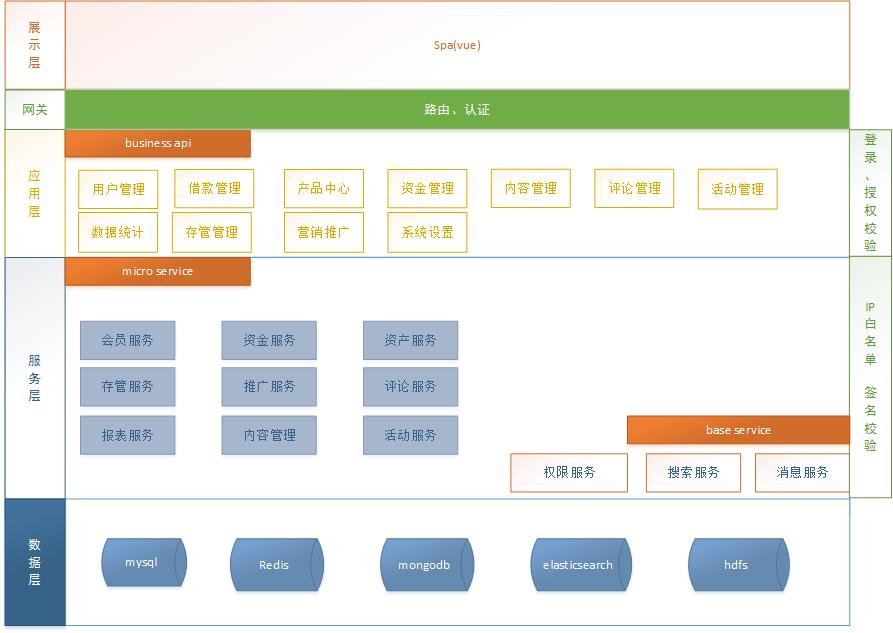
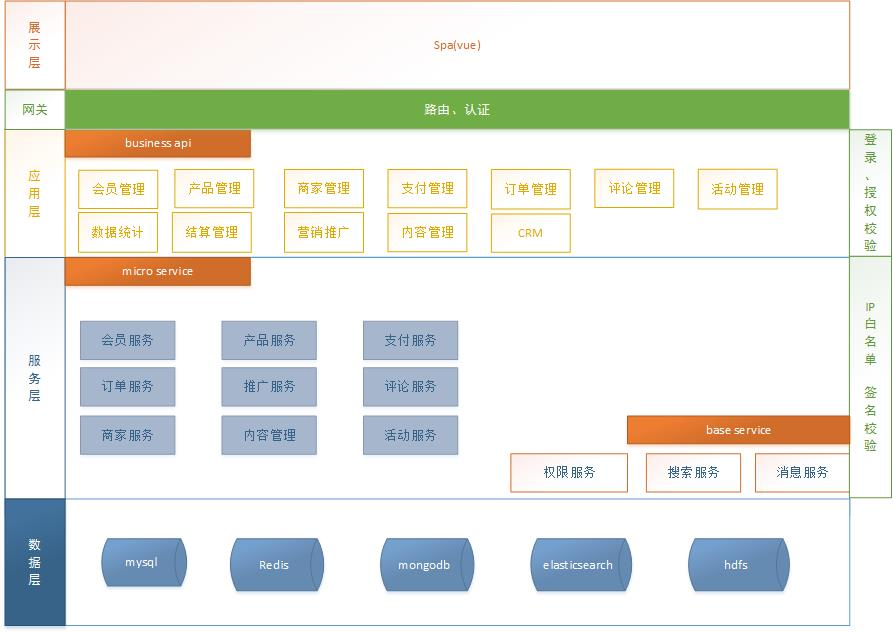
更新

diff --git a/README.md b/README.md
@@ -95,7 +95,8 @@ oss-xxxx-service
 
 ## Q&A
 
-##  电商平台服务化迁移 
+## 电商平台服务化迁移   
+此架构模型适合大部分业务平台
 
 
 
